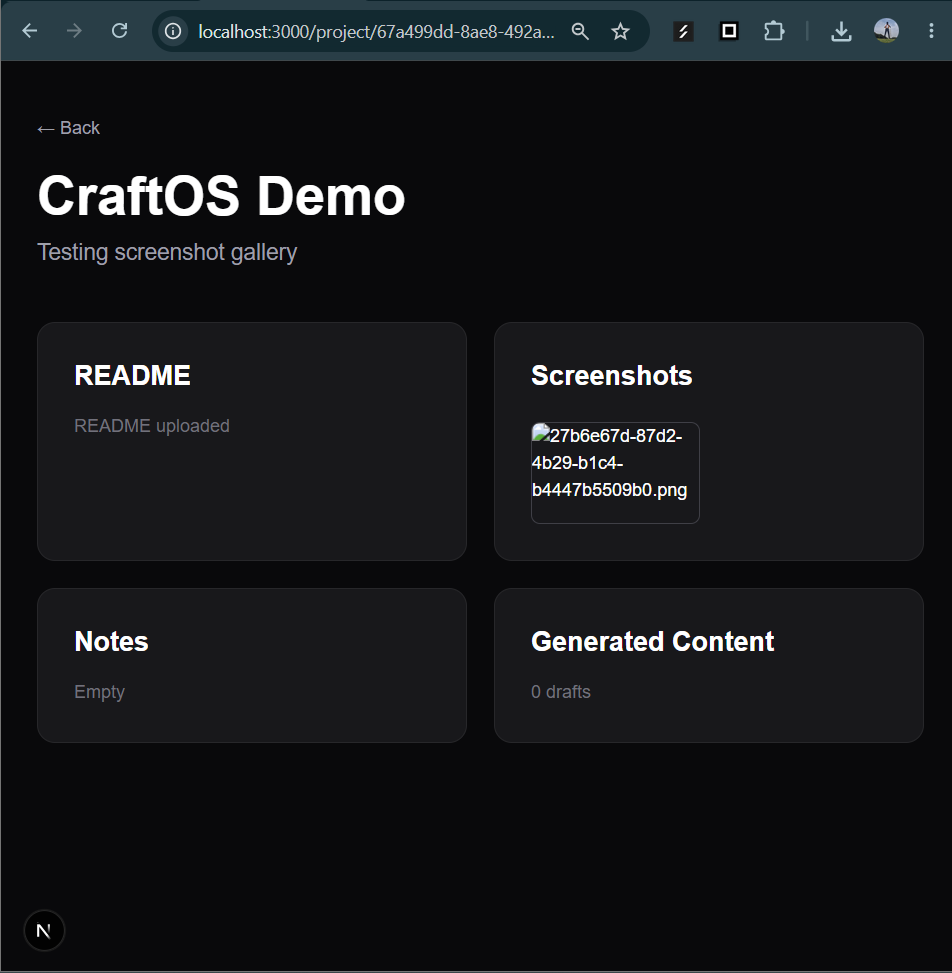
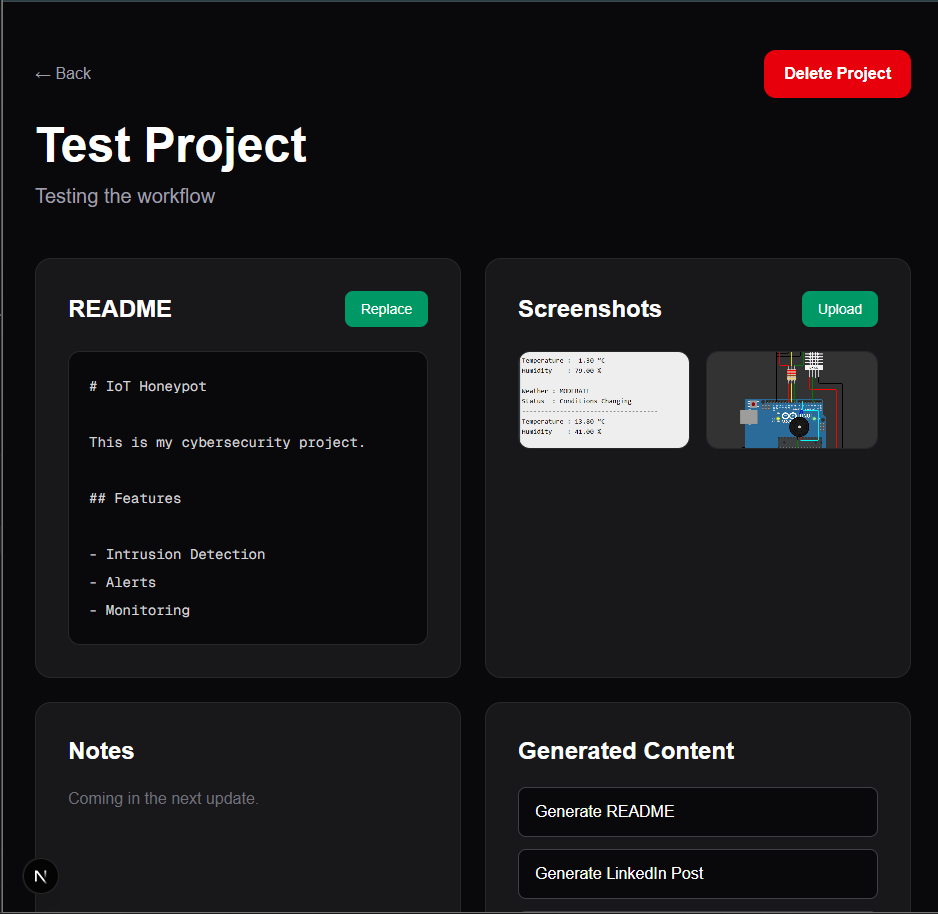
docs: update README and introduce project architecture documentation

diff --git a/docs/ARCHITECTURE.md b/docs/ARCHITECTURE.md
@@ -1,0 +1,108 @@
+# CraftOS Architecture
+
+## Overview
+
+CraftOS follows a client-server architecture.
+
+```
+Next.js Frontend
+        │
+ REST API (HTTP)
+        │
+        ▼
+FastAPI Backend
+        │
+        ├──────────────┐
+        │              │
+        ▼              ▼
+SQLite Database   uploads/
+                  ├── readmes/
+                  └── screenshots/
+```
+
+---
+
+## Frontend
+
+- Next.js
+- React
+- TypeScript
+- Tailwind CSS
+
+Responsibilities
+
+- Project dashboard
+- Project workspace
+- README viewer
+- Screenshot gallery
+- API communication
+
+---
+
+## Backend
+
+FastAPI
+
+Modules
+
+```
+app/
+├── api/
+├── crud.py
+├── database.py
+└── main.py
+```
+
+Responsibilities
+
+- CRUD
+- File uploads
+- SQLite
+- REST API
+
+---
+
+## Database
+
+SQLite
+
+Tables
+
+- projects
+
+---
+
+## File Storage
+
+uploads/
+
+- readmes/
+- screenshots/
+
+---
+
+## Request Flow
+
+```
+Browser
+
+↓
+
+Next.js
+
+↓
+
+FastAPI
+
+↓
+
+SQLite
+
+↓
+
+JSON Response
+
+↓
+
+Frontend UI
+```

diff --git a/README.md b/README.md
@@ -8,14 +8,16 @@ CraftOS helps organize software projects by storing project details, README file
 
 # Features
 
-- Create projects
-- View all projects
-- View individual project workspace
-- Upload README files
-- Download README files
-- REST API with FastAPI
-- Next.js frontend
-- Interactive Swagger documentation
+- Create, view and delete projects
+- Persistent SQLite project storage
+- Dedicated project workspace
+- Upload and replace README files
+- Embedded README viewer
+- Upload multiple project screenshots
+- Screenshot gallery with preview
+- REST API built with FastAPI
+- Interactive Swagger/OpenAPI documentation
+- Next.js + React frontend
 
 ---
 
@@ -32,7 +34,14 @@ CraftOS helps organize software projects by storing project details, README file
 
 - FastAPI
 - Python
+- SQLite
 - Uvicorn
+
+---
+
+## Documentation
+
+- [Architecture](docs/ARCHITECTURE.md)
 
 ---
 
@@ -43,15 +52,21 @@ CraftOS
 │
 ├── app/
 │   ├── lib/
-│   └── project/
+│   ├── project/
+│   └── layout.tsx
 │
 ├── backend/
 │   ├── app/
+│   │   ├── api/
+│   │   ├── crud.py
+│   │   ├── database.py
 │   │   └── main.py
 │   │
-│   └── uploads/
-│       ├── readmes/
-│       └── screenshots/
+│   ├── uploads/
+│   │   ├── readmes/
+│   │   └── screenshots/
+│   │
+│   └── craftos.db
 │
 ├── components/
 │
@@ -72,7 +87,12 @@ CraftOS
 | POST | /projects | Create project |
 | GET | /projects/{project_id} | Get project |
 | POST | /projects/{project_id}/readme | Upload README |
-| GET | /projects/{project_id}/readme | Download README |
+| GET | /projects/{project_id}/readme | Get README file |
+| GET | /projects/{project_id}/readme/content | Get README content |
+| POST | /projects/{project_id}/screenshots | Upload screenshot |
+| GET | /projects/{project_id}/screenshots | List screenshots |
+| GET | /screenshots/{filename} | View screenshot |
+| DELETE | /projects/{project_id} | Delete project |
 
 ---
 
@@ -114,15 +134,21 @@ CraftOS
 
 ---
 
-## Download README
+## README Viewer
 
-![Download README](docs/screenshots/readme-download-success.png)
+![README Viewer](docs/screenshots/readme-viewer-dashboard.png)
 
 ---
 
-## README Storage
+## README Content API
 
-![README Storage](docs/screenshots/readme-storage-backend.png)
+![README Content API](docs/screenshots/readme-content-api-success.png)
+
+---
+
+## Screenshot Gallery
+
+![Screenshot Gallery](docs\screenshots\project-workspace.png)
 
 ---
 
@@ -170,7 +196,7 @@ http://localhost:3000
 
 - ✅ Project Management
 - ✅ README Management
-- ⏳ Screenshot Management
+- ✅ Screenshot Management
 - ⏳ Notes
 - ⏳ AI Content Generation
 - ⏳ Project Export